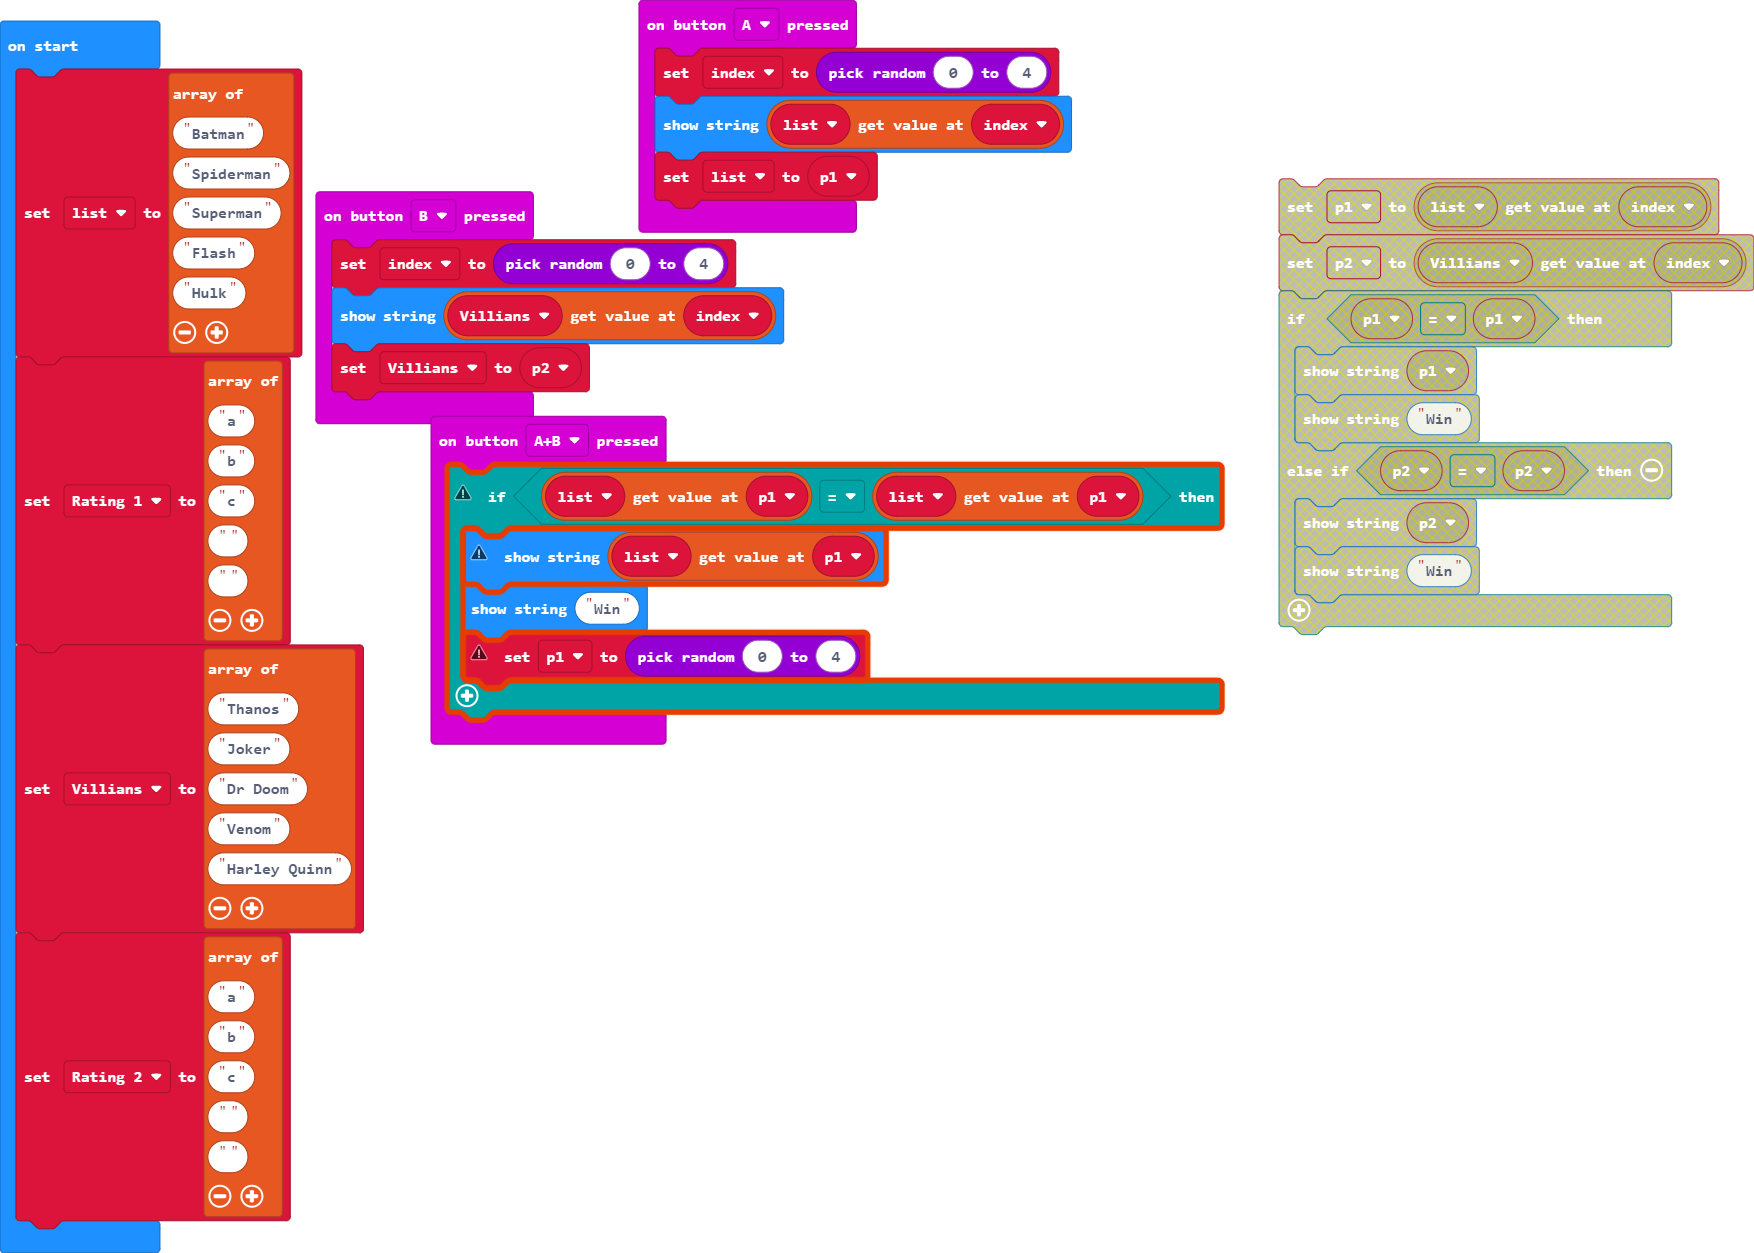
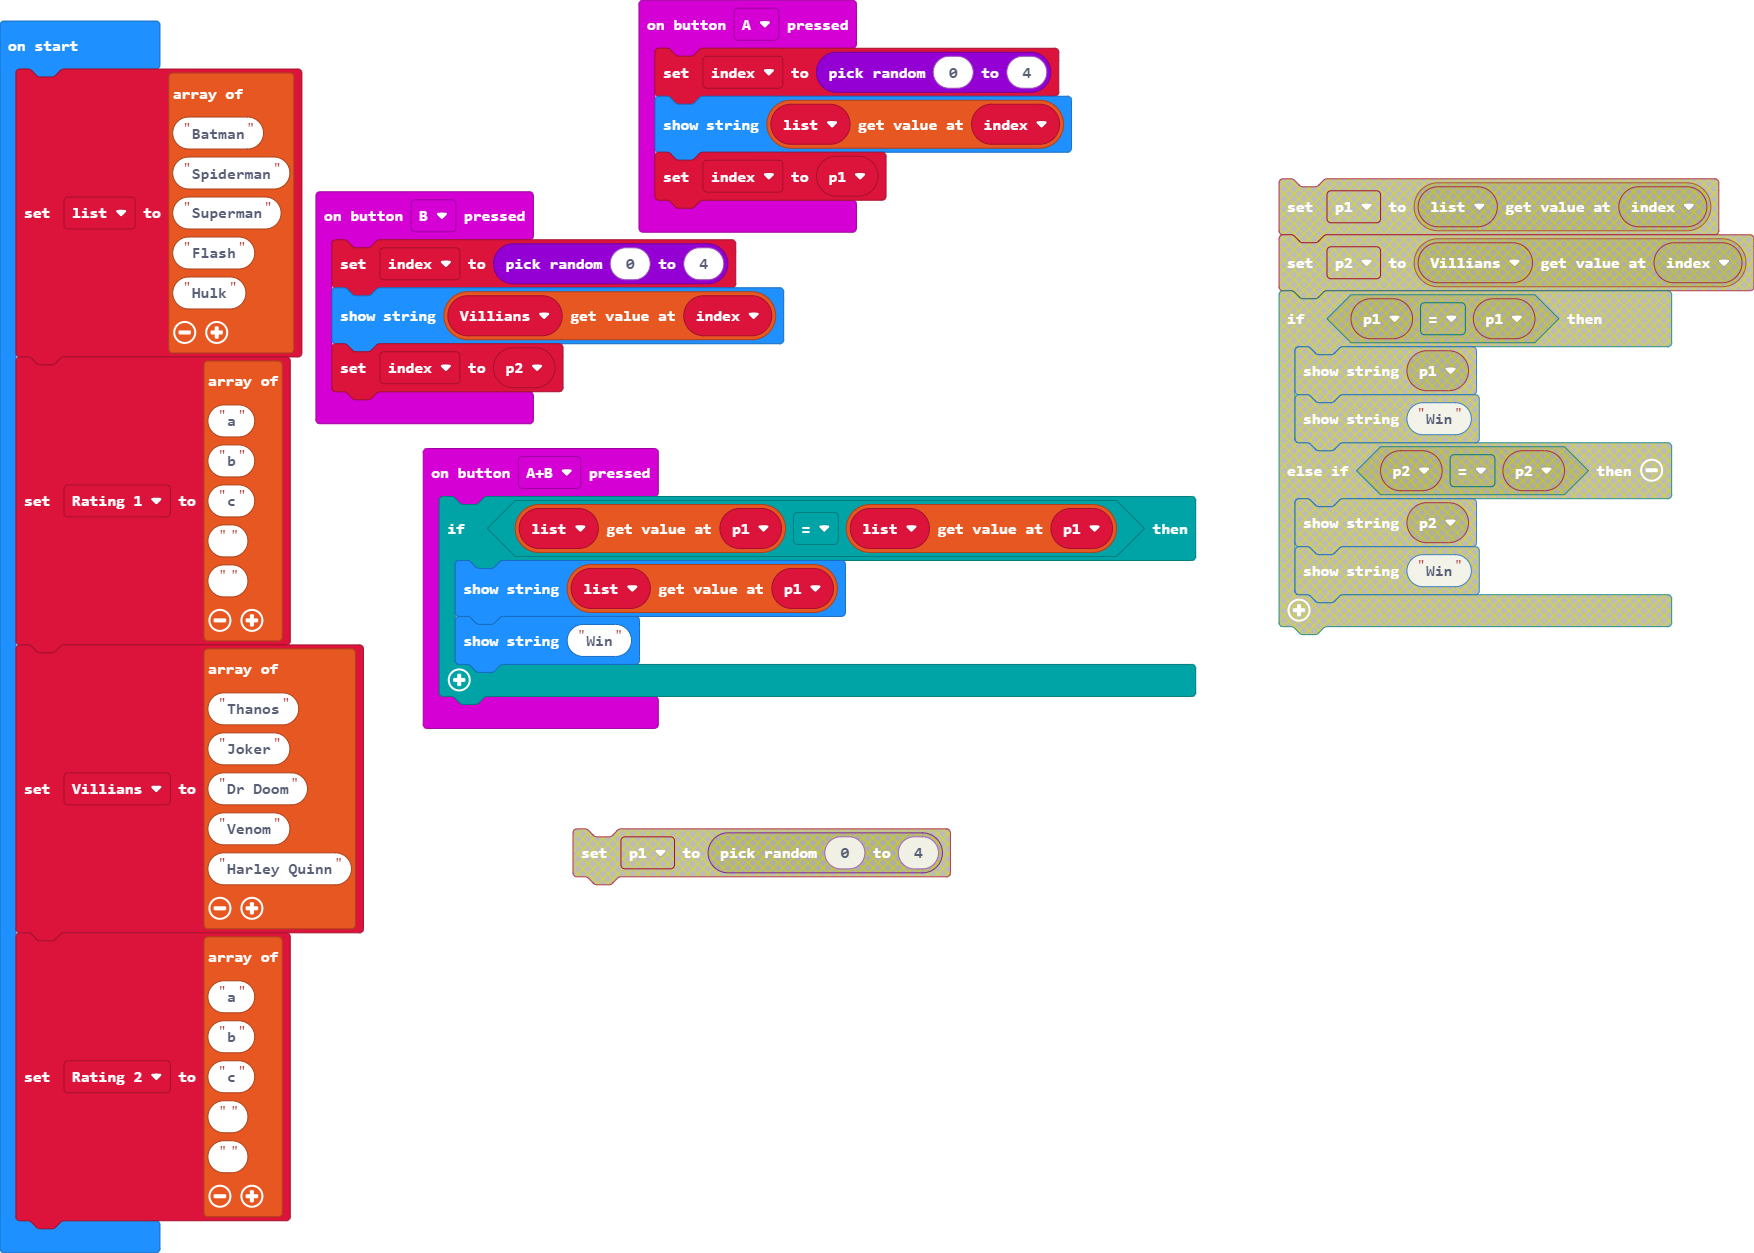
Update main.blocks, main.ts

Changed region(s): [[0.2155, 0.249, 0.7081, 0.6225], [0.3079, 0.6536, 0.5542, 0.7159], [0.431, 0.1245, 0.5234, 0.1556]]

diff --git a/main.ts b/main.ts
@@ -1,22 +1,21 @@
 input.onButtonPressed(Button.A, function () {
     index = randint(0, 4)
     basic.showString("" + (list[index]))
-    list = p1
+    index = p1
 })
 input.onButtonPressed(Button.AB, function () {
     if (list[p1] == list[p1]) {
         basic.showString("" + (list[p1]))
         basic.showString("Win")
-        p1 = randint(0, 4)
     }
 })
 input.onButtonPressed(Button.B, function () {
-    let p2: string[] = []
+    let p2 = 0
     index = randint(0, 4)
     basic.showString("" + (Villians[index]))
-    Villians = p2
+    index = p2
 })
-let p1: string[] = []
+let p1 = 0
 let index = 0
 let Villians: string[] = []
 let list: string[] = []
